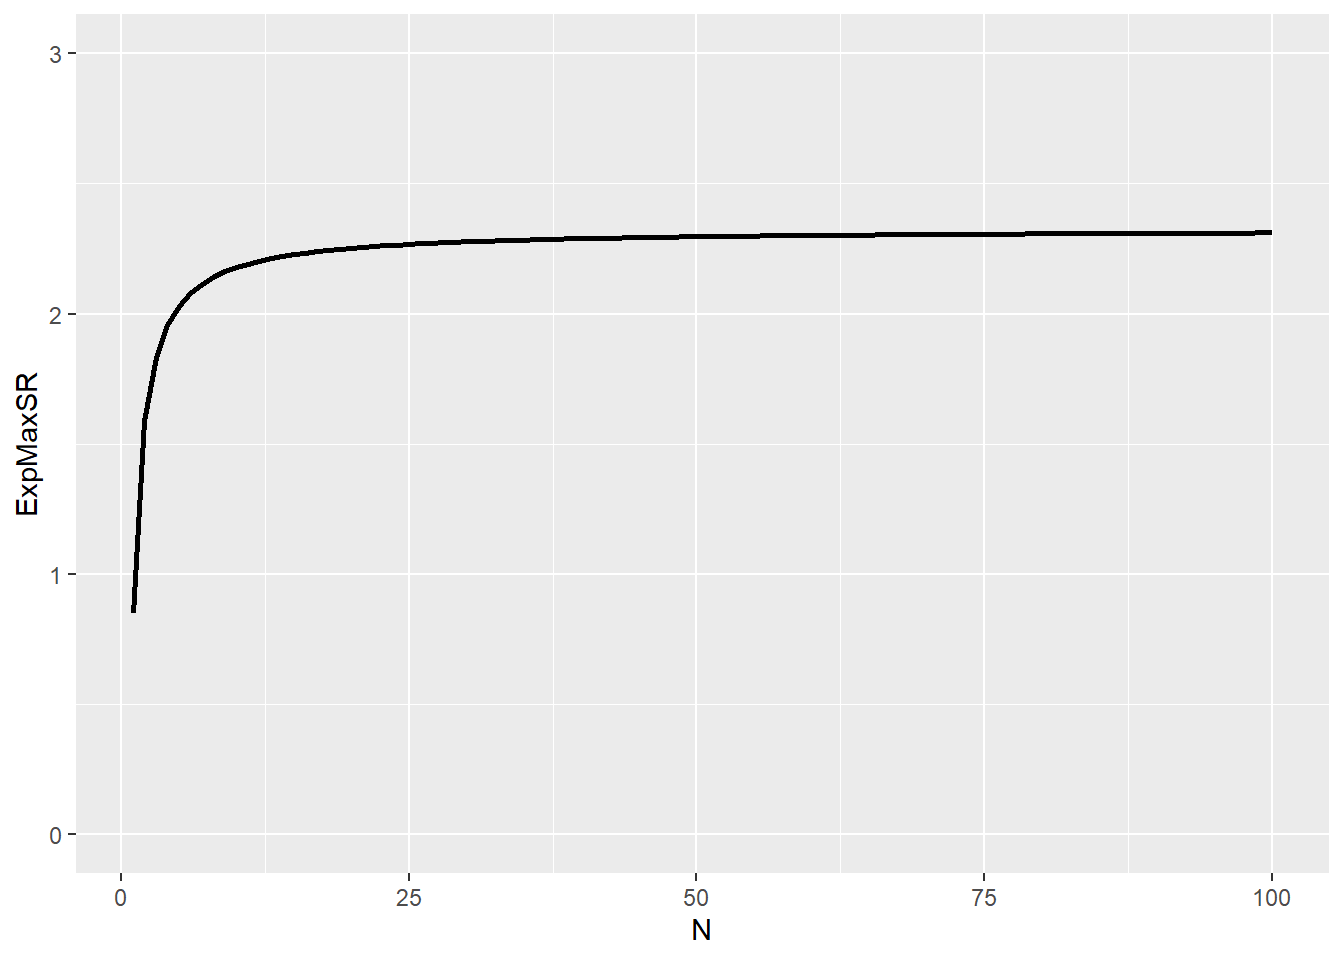
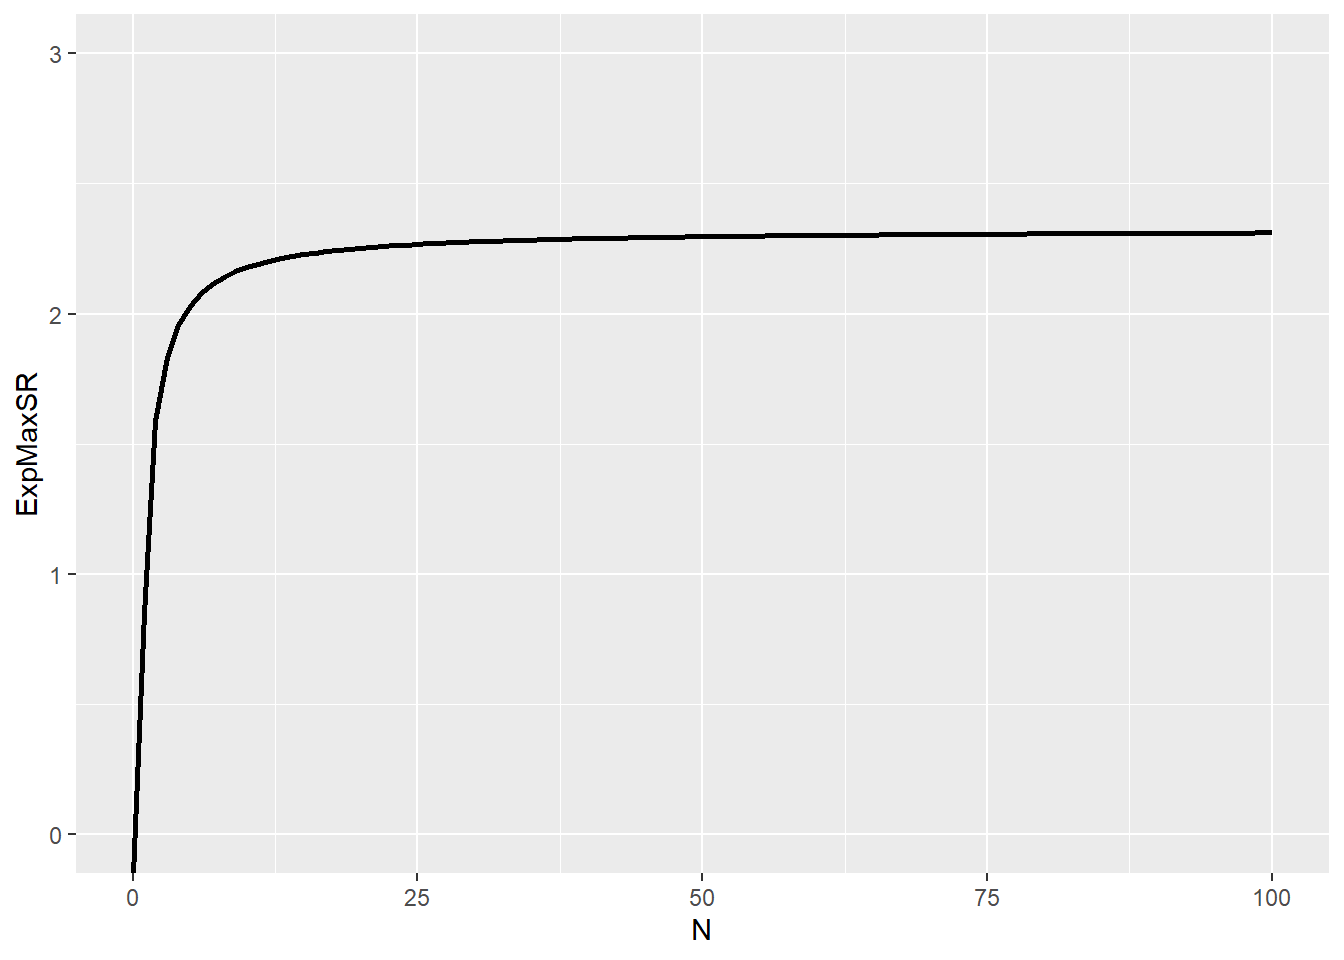
#blogup_20200710_5

diff --git a/docs/post/post23/index.html b/docs/post/post23/index.html
@@ -47,9 +47,9 @@
 
 <link rel="stylesheet" href="https://use.fontawesome.com/releases/v5.3.1/css/all.css" integrity="sha384-mzrmE5qonljUremFsqc01SB46JvROS7bZs3IO2EmfFsd15uHvIt+Y8vEf7N7fWAU" crossorigin="anonymous">
 
-<link href="/my_blog/css/style.css?v=1594387497" rel="stylesheet" id="theme-stylesheet" type='text/css' media='all'>
+<link href="/my_blog/css/style.css?v=1594387809" rel="stylesheet" id="theme-stylesheet" type='text/css' media='all'>
 
-<link href="/my_blog/css/custom.css?v=1594387497" rel="stylesheet" type='text/css' media='all'>
+<link href="/my_blog/css/custom.css?v=1594387809" rel="stylesheet" type='text/css' media='all'>
 <link rel="shortcut icon" href="/my_blog/img/favicon.ico" type="image/x-icon">
 <link rel="icon" href="/my_blog/img/favicon.ico" type="image/x-icon">
 
@@ -451,7 +451,7 @@ ExMaxSR = function(N){
   Z = qnorm(0.99)
   return((1-gamma_ct)*Z*(1-1/N) + gamma_ct*Z*(1-1/N*exp(1)^{-1}))
 }
-N = list(1:100)
+N = list(0:100)
 result = purrr::map(N,ExMaxSR)
 ggplot2::ggplot(data.frame(ExpMaxSR = unlist(result),N = unlist(N)),aes(x=N,y=ExpMaxSR)) +
   geom_line(size=1) + ylim(0,3)</code></pre>
@@ -694,7 +694,7 @@ src="//cdn.bootcss.com/mathjax/2.7.1/MathJax.js?config=TeX-MML-AM_CHTML">
   </div>
   <script src="/my_blog/js/jquery.min.js"></script>
 <script src="/my_blog/js/jquerymigrate.js"></script>
-<script src="/my_blog/js/production.min.js?v=1594387497"></script>
+<script src="/my_blog/js/production.min.js?v=1594387809"></script>
 
 </body>
 </html>

diff --git a/docs/post/post5/index.html b/docs/post/post5/index.html
@@ -47,9 +47,9 @@
 
 <link rel="stylesheet" href="https://use.fontawesome.com/releases/v5.3.1/css/all.css" integrity="sha384-mzrmE5qonljUremFsqc01SB46JvROS7bZs3IO2EmfFsd15uHvIt+Y8vEf7N7fWAU" crossorigin="anonymous">
 
-<link href="/my_blog/css/style.css?v=1594387498" rel="stylesheet" id="theme-stylesheet" type='text/css' media='all'>
+<link href="/my_blog/css/style.css?v=1594387809" rel="stylesheet" id="theme-stylesheet" type='text/css' media='all'>
 
-<link href="/my_blog/css/custom.css?v=1594387498" rel="stylesheet" type='text/css' media='all'>
+<link href="/my_blog/css/custom.css?v=1594387809" rel="stylesheet" type='text/css' media='all'>
 <link rel="shortcut icon" href="/my_blog/img/favicon.ico" type="image/x-icon">
 <link rel="icon" href="/my_blog/img/favicon.ico" type="image/x-icon">
 
@@ -1418,7 +1418,7 @@ src="//cdn.bootcss.com/mathjax/2.7.1/MathJax.js?config=TeX-MML-AM_CHTML">
   </div>
   <script src="/my_blog/js/jquery.min.js"></script>
 <script src="/my_blog/js/jquerymigrate.js"></script>
-<script src="/my_blog/js/production.min.js?v=1594387498"></script>
+<script src="/my_blog/js/production.min.js?v=1594387809"></script>
 
 </body>
 </html>

diff --git a/docs/about/index.html b/docs/about/index.html
@@ -47,9 +47,9 @@
 
 <link rel="stylesheet" href="https://use.fontawesome.com/releases/v5.3.1/css/all.css" integrity="sha384-mzrmE5qonljUremFsqc01SB46JvROS7bZs3IO2EmfFsd15uHvIt+Y8vEf7N7fWAU" crossorigin="anonymous">
 
-<link href="/my_blog/css/style.css?v=1594387498" rel="stylesheet" id="theme-stylesheet" type='text/css' media='all'>
+<link href="/my_blog/css/style.css?v=1594387809" rel="stylesheet" id="theme-stylesheet" type='text/css' media='all'>
 
-<link href="/my_blog/css/custom.css?v=1594387498" rel="stylesheet" type='text/css' media='all'>
+<link href="/my_blog/css/custom.css?v=1594387809" rel="stylesheet" type='text/css' media='all'>
 <link rel="shortcut icon" href="/my_blog/img/favicon.ico" type="image/x-icon">
 <link rel="icon" href="/my_blog/img/favicon.ico" type="image/x-icon">
 
@@ -452,7 +452,7 @@ src="//cdn.bootcss.com/mathjax/2.7.1/MathJax.js?config=TeX-MML-AM_CHTML">
   </div>
   <script src="/my_blog/js/jquery.min.js"></script>
 <script src="/my_blog/js/jquerymigrate.js"></script>
-<script src="/my_blog/js/production.min.js?v=1594387498"></script>
+<script src="/my_blog/js/production.min.js?v=1594387809"></script>
 
 </body>
 </html>

diff --git a/docs/contact/index.html b/docs/contact/index.html
@@ -47,9 +47,9 @@
 
 <link rel="stylesheet" href="https://use.fontawesome.com/releases/v5.3.1/css/all.css" integrity="sha384-mzrmE5qonljUremFsqc01SB46JvROS7bZs3IO2EmfFsd15uHvIt+Y8vEf7N7fWAU" crossorigin="anonymous">
 
-<link href="/my_blog/css/style.css?v=1594387498" rel="stylesheet" id="theme-stylesheet" type='text/css' media='all'>
+<link href="/my_blog/css/style.css?v=1594387809" rel="stylesheet" id="theme-stylesheet" type='text/css' media='all'>
 
-<link href="/my_blog/css/custom.css?v=1594387498" rel="stylesheet" type='text/css' media='all'>
+<link href="/my_blog/css/custom.css?v=1594387809" rel="stylesheet" type='text/css' media='all'>
 <link rel="shortcut icon" href="/my_blog/img/favicon.ico" type="image/x-icon">
 <link rel="icon" href="/my_blog/img/favicon.ico" type="image/x-icon">
 
@@ -377,7 +377,7 @@ src="//cdn.bootcss.com/mathjax/2.7.1/MathJax.js?config=TeX-MML-AM_CHTML">
   </div>
   <script src="/my_blog/js/jquery.min.js"></script>
 <script src="/my_blog/js/jquerymigrate.js"></script>
-<script src="/my_blog/js/production.min.js?v=1594387498"></script>
+<script src="/my_blog/js/production.min.js?v=1594387809"></script>
 
 </body>
 </html>

diff --git a/docs/index.html b/docs/index.html
@@ -48,9 +48,9 @@
 
 <link rel="stylesheet" href="https://use.fontawesome.com/releases/v5.3.1/css/all.css" integrity="sha384-mzrmE5qonljUremFsqc01SB46JvROS7bZs3IO2EmfFsd15uHvIt+Y8vEf7N7fWAU" crossorigin="anonymous">
 
-<link href="/my_blog/css/style.css?v=1594387497" rel="stylesheet" id="theme-stylesheet" type='text/css' media='all'>
+<link href="/my_blog/css/style.css?v=1594387809" rel="stylesheet" id="theme-stylesheet" type='text/css' media='all'>
 
-<link href="/my_blog/css/custom.css?v=1594387497" rel="stylesheet" type='text/css' media='all'>
+<link href="/my_blog/css/custom.css?v=1594387809" rel="stylesheet" type='text/css' media='all'>
 <link rel="shortcut icon" href="/my_blog/img/favicon.ico" type="image/x-icon">
 <link rel="icon" href="/my_blog/img/favicon.ico" type="image/x-icon">
 
@@ -686,7 +686,7 @@ src="//cdn.bootcss.com/mathjax/2.7.1/MathJax.js?config=TeX-MML-AM_CHTML">
   </div>
   <script src="/my_blog/js/jquery.min.js"></script>
 <script src="/my_blog/js/jquerymigrate.js"></script>
-<script src="/my_blog/js/production.min.js?v=1594387497"></script>
+<script src="/my_blog/js/production.min.js?v=1594387809"></script>
 
 </body>
 </html>

diff --git a/docs/page/2/index.html b/docs/page/2/index.html
@@ -48,9 +48,9 @@
 
 <link rel="stylesheet" href="https://use.fontawesome.com/releases/v5.3.1/css/all.css" integrity="sha384-mzrmE5qonljUremFsqc01SB46JvROS7bZs3IO2EmfFsd15uHvIt+Y8vEf7N7fWAU" crossorigin="anonymous">
 
-<link href="/my_blog/css/style.css?v=1594387497" rel="stylesheet" id="theme-stylesheet" type='text/css' media='all'>
+<link href="/my_blog/css/style.css?v=1594387819" rel="stylesheet" id="theme-stylesheet" type='text/css' media='all'>
 
-<link href="/my_blog/css/custom.css?v=1594387497" rel="stylesheet" type='text/css' media='all'>
+<link href="/my_blog/css/custom.css?v=1594387819" rel="stylesheet" type='text/css' media='all'>
 <link rel="shortcut icon" href="/my_blog/img/favicon.ico" type="image/x-icon">
 <link rel="icon" href="/my_blog/img/favicon.ico" type="image/x-icon">
 
@@ -731,7 +731,7 @@ src="//cdn.bootcss.com/mathjax/2.7.1/MathJax.js?config=TeX-MML-AM_CHTML">
   </div>
   <script src="/my_blog/js/jquery.min.js"></script>
 <script src="/my_blog/js/jquerymigrate.js"></script>
-<script src="/my_blog/js/production.min.js?v=1594387497"></script>
+<script src="/my_blog/js/production.min.js?v=1594387819"></script>
 
 </body>
 </html>

diff --git a/docs/page/3/index.html b/docs/page/3/index.html
@@ -48,9 +48,9 @@
 
 <link rel="stylesheet" href="https://use.fontawesome.com/releases/v5.3.1/css/all.css" integrity="sha384-mzrmE5qonljUremFsqc01SB46JvROS7bZs3IO2EmfFsd15uHvIt+Y8vEf7N7fWAU" crossorigin="anonymous">
 
-<link href="/my_blog/css/style.css?v=1594387498" rel="stylesheet" id="theme-stylesheet" type='text/css' media='all'>
+<link href="/my_blog/css/style.css?v=1594387819" rel="stylesheet" id="theme-stylesheet" type='text/css' media='all'>
 
-<link href="/my_blog/css/custom.css?v=1594387498" rel="stylesheet" type='text/css' media='all'>
+<link href="/my_blog/css/custom.css?v=1594387819" rel="stylesheet" type='text/css' media='all'>
 <link rel="shortcut icon" href="/my_blog/img/favicon.ico" type="image/x-icon">
 <link rel="icon" href="/my_blog/img/favicon.ico" type="image/x-icon">
 
@@ -925,7 +925,7 @@ src="//cdn.bootcss.com/mathjax/2.7.1/MathJax.js?config=TeX-MML-AM_CHTML">
   </div>
   <script src="/my_blog/js/jquery.min.js"></script>
 <script src="/my_blog/js/jquerymigrate.js"></script>
-<script src="/my_blog/js/production.min.js?v=1594387498"></script>
+<script src="/my_blog/js/production.min.js?v=1594387819"></script>
 
 </body>
 </html>

diff --git a/docs/page/4/index.html b/docs/page/4/index.html
@@ -48,9 +48,9 @@
 
 <link rel="stylesheet" href="https://use.fontawesome.com/releases/v5.3.1/css/all.css" integrity="sha384-mzrmE5qonljUremFsqc01SB46JvROS7bZs3IO2EmfFsd15uHvIt+Y8vEf7N7fWAU" crossorigin="anonymous">
 
-<link href="/my_blog/css/style.css?v=1594387498" rel="stylesheet" id="theme-stylesheet" type='text/css' media='all'>
+<link href="/my_blog/css/style.css?v=1594387819" rel="stylesheet" id="theme-stylesheet" type='text/css' media='all'>
 
-<link href="/my_blog/css/custom.css?v=1594387498" rel="stylesheet" type='text/css' media='all'>
+<link href="/my_blog/css/custom.css?v=1594387819" rel="stylesheet" type='text/css' media='all'>
 <link rel="shortcut icon" href="/my_blog/img/favicon.ico" type="image/x-icon">
 <link rel="icon" href="/my_blog/img/favicon.ico" type="image/x-icon">
 
@@ -848,7 +848,7 @@ src="//cdn.bootcss.com/mathjax/2.7.1/MathJax.js?config=TeX-MML-AM_CHTML">
   </div>
   <script src="/my_blog/js/jquery.min.js"></script>
 <script src="/my_blog/js/jquerymigrate.js"></script>
-<script src="/my_blog/js/production.min.js?v=1594387498"></script>
+<script src="/my_blog/js/production.min.js?v=1594387819"></script>
 
 </body>
 </html>

diff --git a/docs/post/post10/index.html b/docs/post/post10/index.html
@@ -47,9 +47,9 @@
 
 <link rel="stylesheet" href="https://use.fontawesome.com/releases/v5.3.1/css/all.css" integrity="sha384-mzrmE5qonljUremFsqc01SB46JvROS7bZs3IO2EmfFsd15uHvIt+Y8vEf7N7fWAU" crossorigin="anonymous">
 
-<link href="/my_blog/css/style.css?v=1594387498" rel="stylesheet" id="theme-stylesheet" type='text/css' media='all'>
+<link href="/my_blog/css/style.css?v=1594387809" rel="stylesheet" id="theme-stylesheet" type='text/css' media='all'>
 
-<link href="/my_blog/css/custom.css?v=1594387498" rel="stylesheet" type='text/css' media='all'>
+<link href="/my_blog/css/custom.css?v=1594387809" rel="stylesheet" type='text/css' media='all'>
 <link rel="shortcut icon" href="/my_blog/img/favicon.ico" type="image/x-icon">
 <link rel="icon" href="/my_blog/img/favicon.ico" type="image/x-icon">
 
@@ -719,7 +719,7 @@ src="//cdn.bootcss.com/mathjax/2.7.1/MathJax.js?config=TeX-MML-AM_CHTML">
   </div>
   <script src="/my_blog/js/jquery.min.js"></script>
 <script src="/my_blog/js/jquerymigrate.js"></script>
-<script src="/my_blog/js/production.min.js?v=1594387498"></script>
+<script src="/my_blog/js/production.min.js?v=1594387809"></script>
 
 </body>
 </html>

diff --git a/docs/post/post11/index.html b/docs/post/post11/index.html
@@ -47,9 +47,9 @@
 
 <link rel="stylesheet" href="https://use.fontawesome.com/releases/v5.3.1/css/all.css" integrity="sha384-mzrmE5qonljUremFsqc01SB46JvROS7bZs3IO2EmfFsd15uHvIt+Y8vEf7N7fWAU" crossorigin="anonymous">
 
-<link href="/my_blog/css/style.css?v=1594387498" rel="stylesheet" id="theme-stylesheet" type='text/css' media='all'>
+<link href="/my_blog/css/style.css?v=1594387809" rel="stylesheet" id="theme-stylesheet" type='text/css' media='all'>
 
-<link href="/my_blog/css/custom.css?v=1594387498" rel="stylesheet" type='text/css' media='all'>
+<link href="/my_blog/css/custom.css?v=1594387809" rel="stylesheet" type='text/css' media='all'>
 <link rel="shortcut icon" href="/my_blog/img/favicon.ico" type="image/x-icon">
 <link rel="icon" href="/my_blog/img/favicon.ico" type="image/x-icon">
 
@@ -688,7 +688,7 @@ src="//cdn.bootcss.com/mathjax/2.7.1/MathJax.js?config=TeX-MML-AM_CHTML">
   </div>
   <script src="/my_blog/js/jquery.min.js"></script>
 <script src="/my_blog/js/jquerymigrate.js"></script>
-<script src="/my_blog/js/production.min.js?v=1594387498"></script>
+<script src="/my_blog/js/production.min.js?v=1594387809"></script>
 
 </body>
 </html>

diff --git a/docs/post/post13/index.html b/docs/post/post13/index.html
@@ -47,9 +47,9 @@
 
 <link rel="stylesheet" href="https://use.fontawesome.com/releases/v5.3.1/css/all.css" integrity="sha384-mzrmE5qonljUremFsqc01SB46JvROS7bZs3IO2EmfFsd15uHvIt+Y8vEf7N7fWAU" crossorigin="anonymous">
 
-<link href="/my_blog/css/style.css?v=1594387498" rel="stylesheet" id="theme-stylesheet" type='text/css' media='all'>
+<link href="/my_blog/css/style.css?v=1594387809" rel="stylesheet" id="theme-stylesheet" type='text/css' media='all'>
 
-<link href="/my_blog/css/custom.css?v=1594387498" rel="stylesheet" type='text/css' media='all'>
+<link href="/my_blog/css/custom.css?v=1594387809" rel="stylesheet" type='text/css' media='all'>
 <link rel="shortcut icon" href="/my_blog/img/favicon.ico" type="image/x-icon">
 <link rel="icon" href="/my_blog/img/favicon.ico" type="image/x-icon">
 
@@ -791,7 +791,7 @@ src="//cdn.bootcss.com/mathjax/2.7.1/MathJax.js?config=TeX-MML-AM_CHTML">
   </div>
   <script src="/my_blog/js/jquery.min.js"></script>
 <script src="/my_blog/js/jquerymigrate.js"></script>
-<script src="/my_blog/js/production.min.js?v=1594387498"></script>
+<script src="/my_blog/js/production.min.js?v=1594387809"></script>
 
 </body>
 </html>

diff --git a/docs/post/post14/index.html b/docs/post/post14/index.html
@@ -47,9 +47,9 @@
 
 <link rel="stylesheet" href="https://use.fontawesome.com/releases/v5.3.1/css/all.css" integrity="sha384-mzrmE5qonljUremFsqc01SB46JvROS7bZs3IO2EmfFsd15uHvIt+Y8vEf7N7fWAU" crossorigin="anonymous">
 
-<link href="/my_blog/css/style.css?v=1594387498" rel="stylesheet" id="theme-stylesheet" type='text/css' media='all'>
+<link href="/my_blog/css/style.css?v=1594387809" rel="stylesheet" id="theme-stylesheet" type='text/css' media='all'>
 
-<link href="/my_blog/css/custom.css?v=1594387498" rel="stylesheet" type='text/css' media='all'>
+<link href="/my_blog/css/custom.css?v=1594387809" rel="stylesheet" type='text/css' media='all'>
 <link rel="shortcut icon" href="/my_blog/img/favicon.ico" type="image/x-icon">
 <link rel="icon" href="/my_blog/img/favicon.ico" type="image/x-icon">
 
@@ -562,7 +562,7 @@ src="//cdn.bootcss.com/mathjax/2.7.1/MathJax.js?config=TeX-MML-AM_CHTML">
   </div>
   <script src="/my_blog/js/jquery.min.js"></script>
 <script src="/my_blog/js/jquerymigrate.js"></script>
-<script src="/my_blog/js/production.min.js?v=1594387498"></script>
+<script src="/my_blog/js/production.min.js?v=1594387809"></script>
 
 </body>
 </html>
